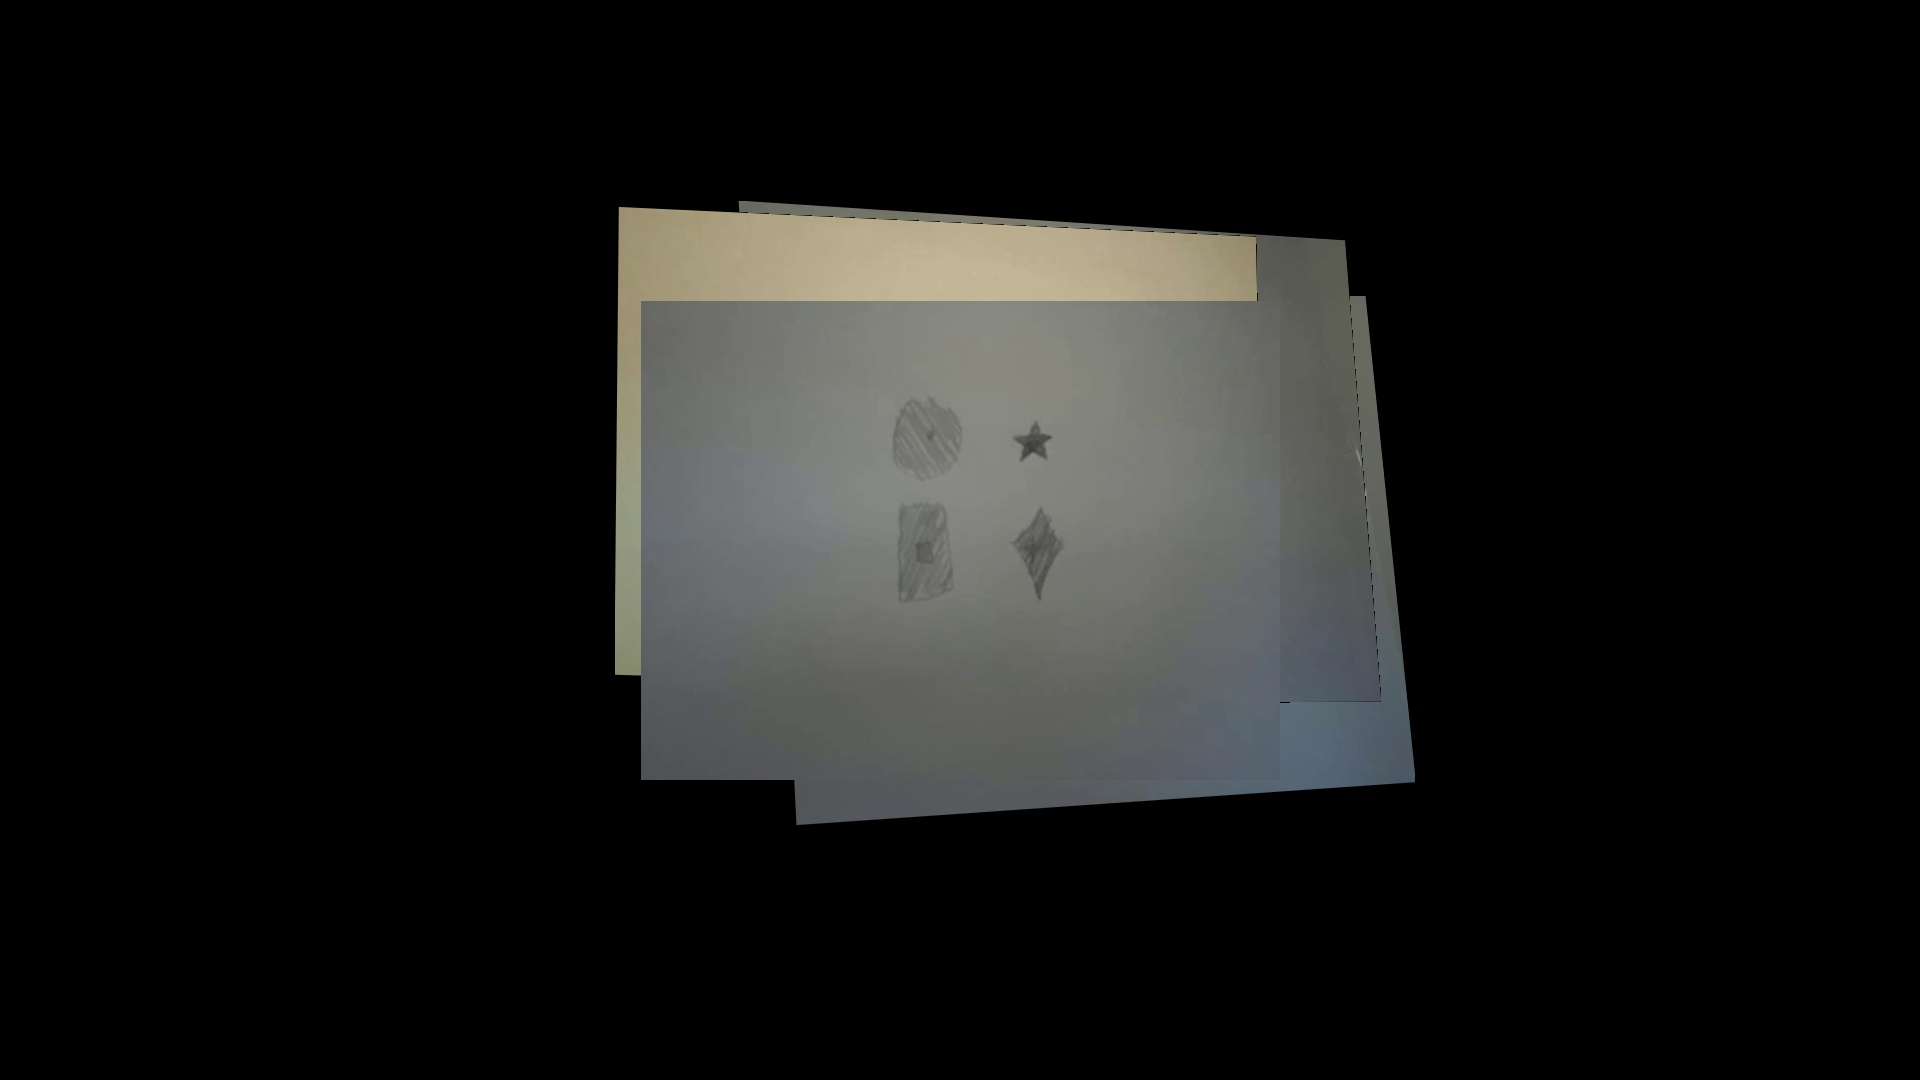
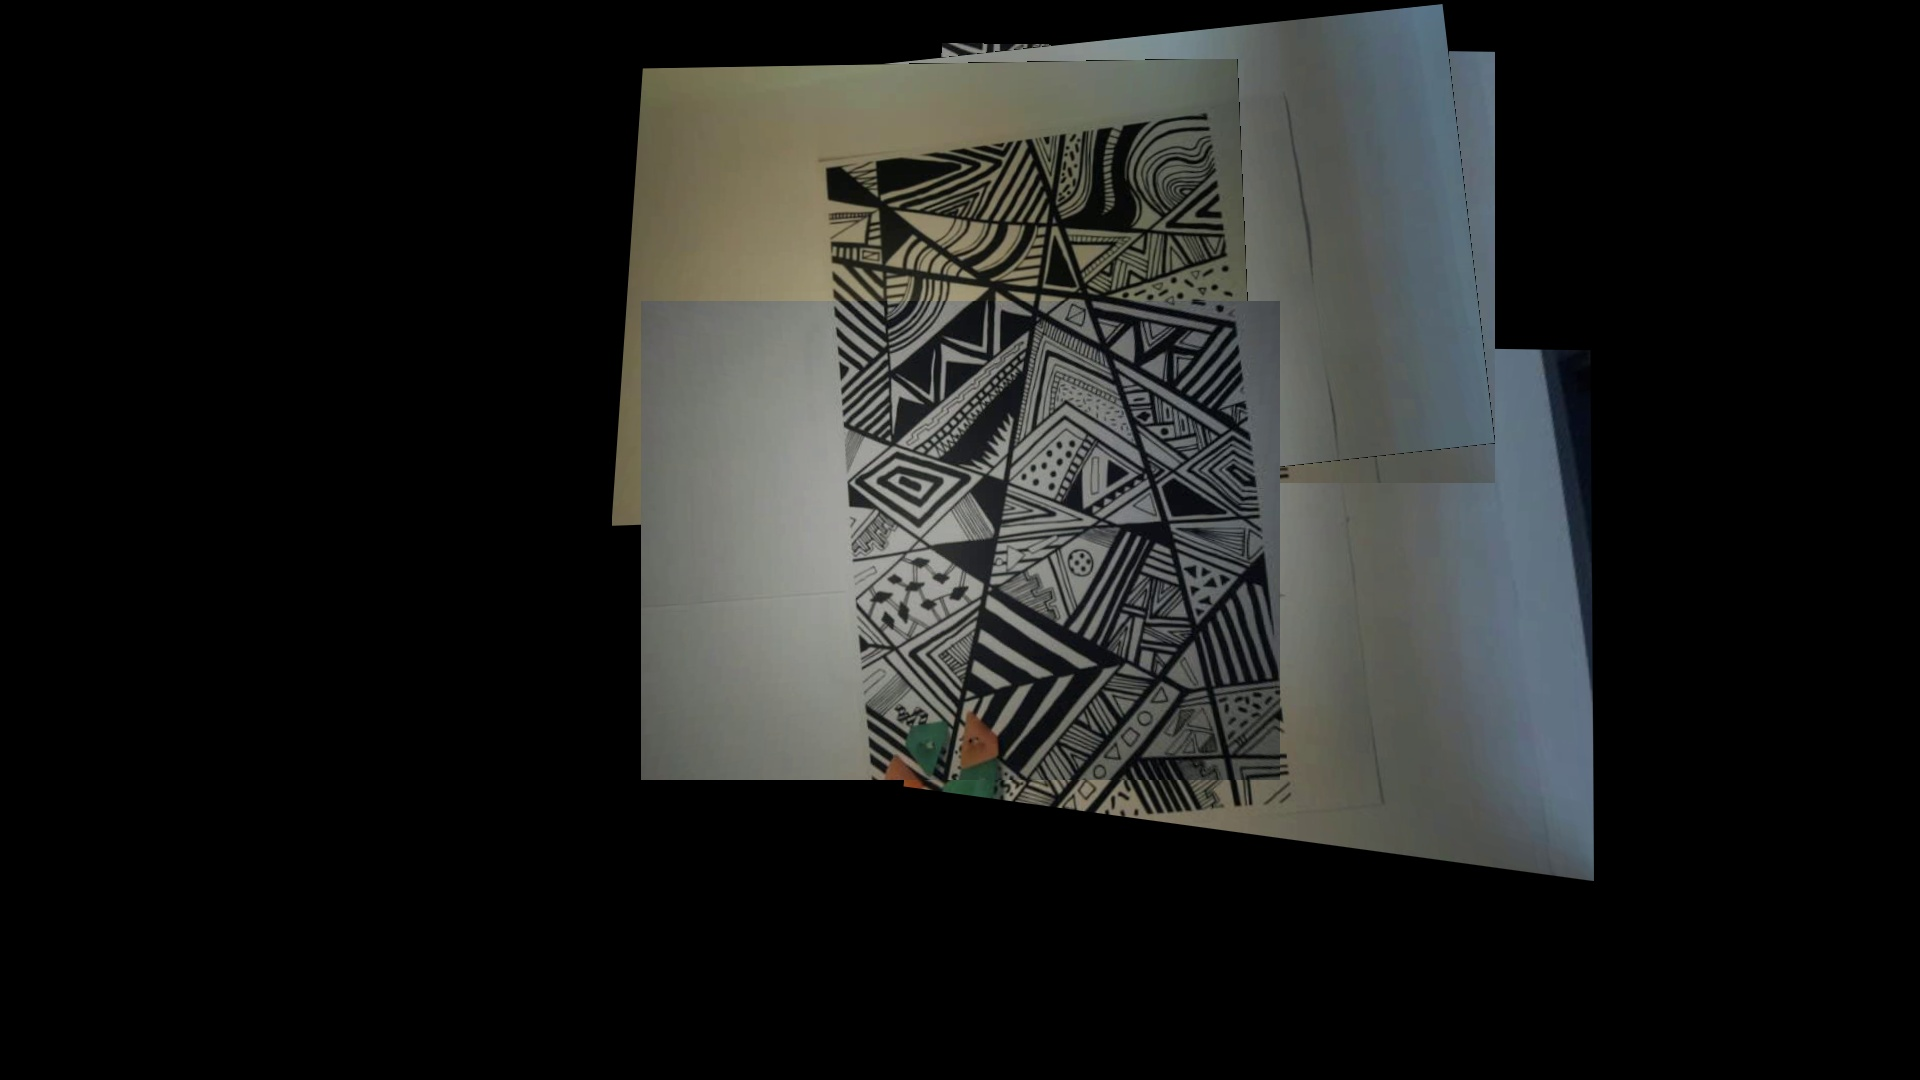
Added raspberry pi streaming, sending current code to master branch

Changed region(s): [[0.3125, 0.0, 0.8438, 0.825]]

diff --git a/stitcher/pistream_stitch.py b/stitcher/pistream_stitch.py
@@ -1,0 +1,134 @@
+import cv2
+import urllib
+import numpy as np
+import stitcher2
+
+OUTPUT_SIZE = [1080,1920,3]
+stitch = stitcher2.Stitcher()
+H1 = np.zeros([3,3])
+H2 = np.zeros([3,3])
+H3 = np.zeros([3,3])
+output_template = np.zeros(OUTPUT_SIZE)
+output_center = np.array([OUTPUT_SIZE[0]/2,OUTPUT_SIZE[1]/2]).astype('int')
+
+
+stream1=urllib.urlopen('http://10.42.0.105:8060/?action=stream')
+stream2=urllib.urlopen('http://10.42.0.124:8070/?action=stream')
+stream3=urllib.urlopen('http://10.42.0.104:8080/?action=stream')
+stream4=urllib.urlopen('http://10.42.0.102:8090/?action=stream')
+
+flag1 = False
+flag2 = False
+flag3 = False
+flag4 = False
+
+bytes1=''
+bytes2=''
+bytes3=''
+bytes4=''
+
+
+image1 = np.zeros((960,1280,3)).astype(np.uint8)
+image2 = np.zeros((960,1280,3)).astype(np.uint8)
+image3 = np.zeros((960,1280,3)).astype(np.uint8)
+image4 = np.zeros((960,1280,3)).astype(np.uint8)
+while True:
+    result = np.zeros((1900,1900,3)).astype(np.uint8)
+
+    bytes1+=stream1.read(10000)
+    bytes2+=stream2.read(10000)
+    bytes3+=stream3.read(10000)
+    bytes4+=stream4.read(10000)
+
+    a1 = bytes1.find('\xff\xd8')
+    b1 = bytes1.find('\xff\xd9')
+    a2 = bytes2.find('\xff\xd8')
+    b2 = bytes2.find('\xff\xd9')
+    a3 = bytes3.find('\xff\xd8')
+    b3 = bytes3.find('\xff\xd9')
+    a4 = bytes4.find('\xff\xd8')
+    b4 = bytes4.find('\xff\xd9')
+
+
+    if a1!=-1 and b1!=-1:
+        flag1 = True
+        jpg1 = bytes1[a1:b1+2]
+        bytes1= bytes1[b1+2:]
+
+        image1 = cv2.imdecode(np.fromstring(jpg1, dtype=np.uint8),cv2.IMREAD_COLOR)
+        #cv2.imshow('stream1',image1)
+        
+	if cv2.waitKey(1) == ord('q'):
+            exit(0)
+
+    if a2!=-1 and b2!=-1:
+        flag2 = True        
+        jpg2 = bytes2[a2:b2+2]
+        bytes2= bytes2[b2+2:]
+        image2 = cv2.imdecode(np.fromstring(jpg2, dtype=np.uint8),cv2.IMREAD_COLOR)
+        #cv2.imshow('stream2',image2)
+	if cv2.waitKey(1) == ord('q'):
+            exit(0)
+
+    if a3!=-1 and b3!=-1:
+        flag3 = True
+        jpg3 = bytes3[a3:b3+2]
+        bytes3= bytes3[b3+2:]
+        image3 = cv2.imdecode(np.fromstring(jpg3, dtype=np.uint8),cv2.IMREAD_COLOR)
+        #cv2.imshow('stream3',image3)
+	if cv2.waitKey(1) == ord('q'):
+            exit(0)
+
+    if a4!=-1 and b4!=-1:
+        flag4 = True
+        jpg4 = bytes4[a4:b4+2]
+        bytes4= bytes4[b4+2:]
+        image4 = cv2.imdecode(np.fromstring(jpg4, dtype=np.uint8),cv2.IMREAD_COLOR)
+        #cv2.imshow('stream4',image4)
+	if cv2.waitKey(1) == ord('q'):
+            exit(0)
+
+    if flag1 and flag2 and flag3 and flag4:
+        flag1 = False
+        flag2 = False
+        flag3 = False
+        flag4 = False
+
+        (result1, vis1,H,mask11,mask12,coord_shift1) = stitch.stitch([image1, image2], showMatches=True)
+        (result2, vis2,H,mask21,mask22,coord_shift2) = stitch.stitch([image1, image3], showMatches=True)
+        (result3, vis3,H,mask31,mask32,coord_shift3) = stitch.stitch([image1, image4], showMatches=True)
+
+        out_pos = output_center - np.array(image1.shape[0:2])/2
+    
+        if result1 is not 0:
+            print "result1", coord_shift1
+            result_window = result[out_pos[0]-coord_shift1[0]:out_pos[0]-coord_shift1[0]+result1.shape[0],out_pos[1]-coord_shift1[1]:out_pos[1]-coord_shift1[1]+result1.shape[1],:]
+            result1 = result1[0:result_window.shape[0],0:result_window.shape[1]]
+            mask11 = mask11[0:result_window.shape[0],0:result_window.shape[1]]
+            mask12 = mask12[0:result_window.shape[0],0:result_window.shape[1]]
+    
+            result[out_pos[0]-coord_shift1[0]:out_pos[0]-coord_shift1[0]+result1.shape[0],out_pos[1]-coord_shift1[1]:out_pos[1]-coord_shift1[1]+result1.shape[1],:] = result1*mask12+ result_window*np.logical_not(mask12)
+
+        if result2 is not 0:
+            print "result 2", coord_shift2
+            result_window = result[out_pos[0]-coord_shift2[0]:out_pos[0]-coord_shift2[0]+result2.shape[0],out_pos[1]-coord_shift2[1]:out_pos[1]-coord_shift2[1]+result2.shape[1],:]
+            result2 = result2[0:result_window.shape[0],0:result_window.shape[1]]
+            mask21 = mask21[0:result_window.shape[0],0:result_window.shape[1]]
+            mask22 = mask22[0:result_window.shape[0],0:result_window.shape[1]]
+    
+            result[out_pos[0]-coord_shift2[0]:out_pos[0]-coord_shift2[0]+result2.shape[0],out_pos[1]-coord_shift2[1]:out_pos[1]-coord_shift2[1]+result2.shape[1],:] = result2*mask22+ result_window*np.logical_not(mask22)
+        
+        if result3 is not 0:
+            print "result 3", coord_shift3
+            result_window = result[out_pos[0]-coord_shift3[0]:out_pos[0]-coord_shift3[0]+result3.shape[0],out_pos[1]-coord_shift3[1]:out_pos[1]-coord_shift3[1]+result3.shape[1],:]
+            result3 = result3[0:result_window.shape[0],0:result_window.shape[1]]
+            mask31 = mask31[0:result_window.shape[0],0:result_window.shape[1]]
+            mask32 = mask32[0:result_window.shape[0],0:result_window.shape[1]]
+    
+            result[out_pos[0]-coord_shift3[0]:out_pos[0]-coord_shift3[0]+result3.shape[0],out_pos[1]-coord_shift3[1]:out_pos[1]-coord_shift3[1]+result3.shape[1],:] = result3*mask32+ result_window*np.logical_not(mask32)
+
+        result = result.astype('uint8')
+
+        cv2.imshow("Result",result)
+        if cv2.waitKey(1) == ord('q'):
+            exit(0)

diff --git a/stitcher/stitcher.py b/stitcher/stitcher.py
@@ -101,12 +101,12 @@ class Stitcher:
         def detectAndDescribe(self, image):
 		# convert the image to grayscale
 		gray = cv2.cvtColor(image, cv2.COLOR_BGR2GRAY)
- 
+ 	
 		# detect and extract features from the image
 		#descriptor = cv2.xfeatures2d.SIFT_create()
 		descriptor = cv2.xfeatures2d.SURF_create()
 		
-		(kps, features) = descriptor.detectAndCompute(image, None)
+		(kps, features) = descriptor.detectAndCompute(gray, None)
  
 		# convert the keypoints from KeyPoint objects to NumPy
 		# arrays

diff --git a/tools/vidreader.py b/tools/vidreader.py
@@ -2,9 +2,8 @@ import cv2
 import numpy as np
 
 
-vidcap = cv2.VideoCapture('4vidStream.avi')
-#vidcap = cv2.VideoCapture('../stitcher/DemoPrestitched.avi')
-#vidcap = cv2.VideoCapture('../stitcher/DemoRestitched.avi')
+vidcap = cv2.VideoCapture("/dev/stdin")
+#vidcap = cv2.VideoCapture(0)
 
 
 success, frame = vidcap.read()

diff --git a/stitcher/stitcher2.py b/stitcher/stitcher2.py
@@ -15,7 +15,7 @@ EROSION_LOOPS = 1
 DILATION_LOOPS = 6
 EDGE_WIN_SIZE = 40
 SEAM_PAD = 45
-SIZE_BOUNDS = [1080,1920]
+SIZE_BOUNDS = [1920,1920]
 SEAM_ADJ = [-SEAM_PAD,SEAM_PAD,-SEAM_PAD,SEAM_PAD]
 
 class Stitcher:
